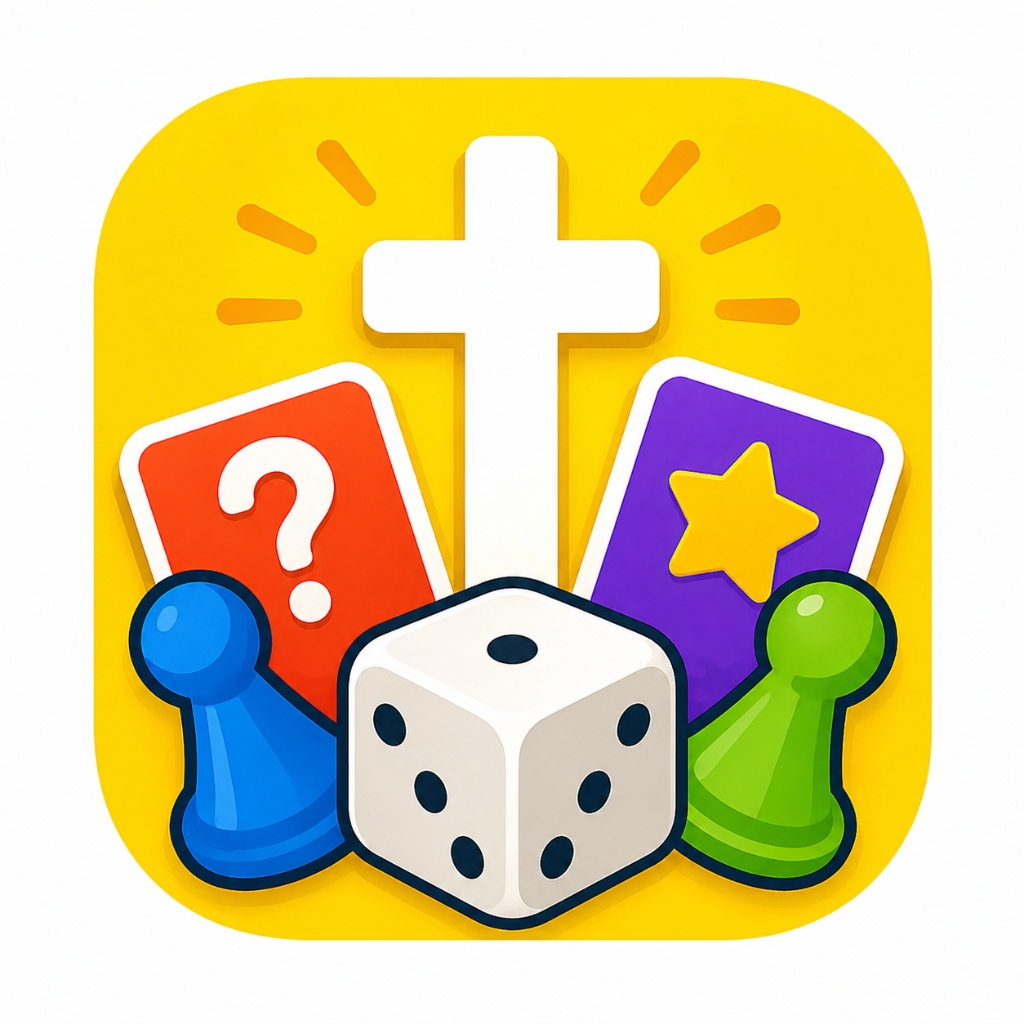
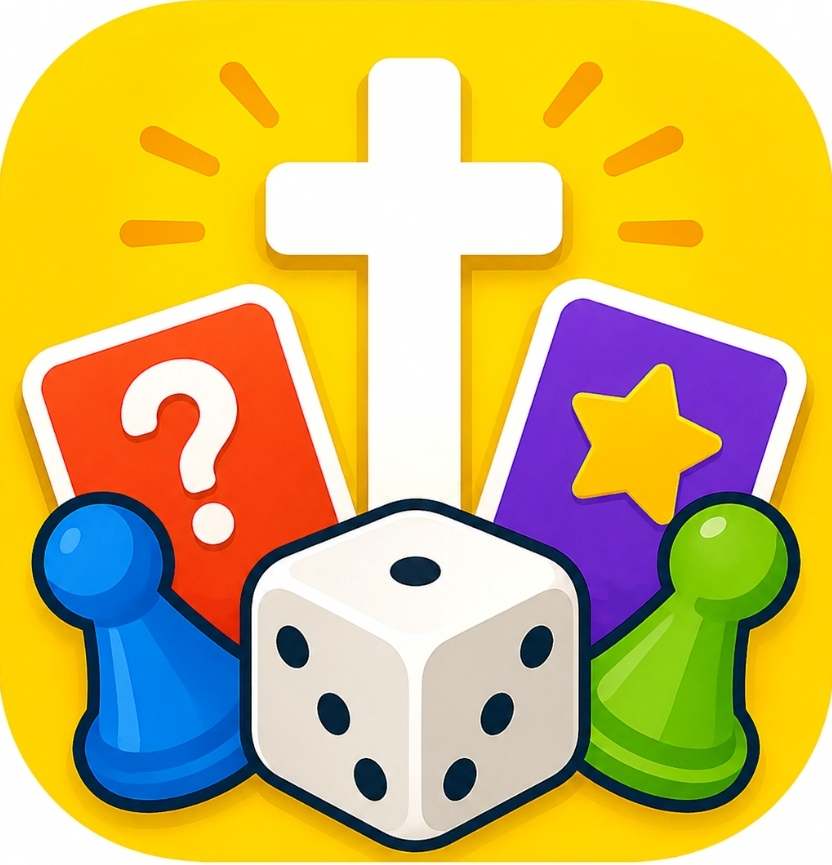
feat: expand home modules, add suggestions to Mais dialog, and fix header overlap

diff --git a/src/pages/Dashboard.tsx b/src/pages/Dashboard.tsx
@@ -62,7 +62,7 @@ export default function Dashboard() {
       }
     });
     
-    if (closestIndex >= 0 && closestIndex < 6) {
+    if (closestIndex >= 0 && closestIndex < 8) {
       setActiveModuleIndex(closestIndex);
     }
   };
@@ -1098,11 +1098,46 @@ export default function Dashboard() {
                 Bíblia
               </span>
             </div>
+
+            {/* Card Jogos */}
+            <div className="w-[130px] sm:w-[145px] shrink-0 snap-start relative group flex flex-col items-center">
+              <button
+                onClick={() => navigate("/jogos")}
+                className="relative aspect-square w-full rounded-[24px] overflow-hidden hover:scale-[1.04] active:scale-95 transition-all duration-300 shadow-lg border-2 border-white/50"
+              >
+                <img src="/icone-jogos.png" alt="Jogos" loading="lazy" className="w-full h-full object-cover transition-transform duration-300 group-hover:scale-105" />
+              </button>
+              <span className="text-[10px] font-black text-center mt-1.5 uppercase tracking-wider text-muted-foreground group-hover:text-primary transition-colors truncate w-full">
+                Jogos
+              </span>
+            </div>
+
+            {/* Card Catequese em Família */}
+            <div className="w-[130px] sm:w-[145px] shrink-0 snap-start relative group flex flex-col items-center">
+              <button
+                onClick={() => {
+                  if (selectedTurmaId !== "all" && selectedTurma?.status !== 'pending') {
+                    navigate(`/turmas/${selectedTurmaId}/familia`);
+                  } else if (selectedTurmaId === "all") {
+                    toast.info("Selecione uma turma para acessar este módulo.");
+                    setTurmaPickerOpen(true);
+                  } else {
+                    toast.info("Aguarde a aprovação do acesso.");
+                  }
+                }}
+                className="relative aspect-square w-full rounded-[24px] overflow-hidden hover:scale-[1.04] active:scale-95 transition-all duration-300 shadow-lg border-2 border-white/50"
+              >
+                <img src="/icone-catequese em familia.png" alt="Catequese em Família" loading="lazy" className="w-full h-full object-cover transition-transform duration-300 group-hover:scale-105" />
+              </button>
+              <span className="text-[10px] font-black text-center mt-1.5 uppercase tracking-wider text-muted-foreground group-hover:text-primary transition-colors truncate w-full">
+                Família
+              </span>
+            </div>
           </div>
 
           {/* Indicador de Bolinhas (Pagination Dots) */}
           <div className="flex justify-center items-center gap-1.5 mt-2 mb-4">
-            {[0, 1, 2, 3, 4, 5].map((idx) => (
+            {[0, 1, 2, 3, 4, 5, 6, 7].map((idx) => (
               <button
                 key={idx}
                 onClick={() => {

diff --git a/src/components/AppLayout.tsx b/src/components/AppLayout.tsx
@@ -192,19 +192,24 @@ export default function AppLayout({ children }: { children?: React.ReactNode }) 
                   { label: "Material", path: "/modulos/material", icon: FileText, color: "bg-emerald-500/15 text-emerald-600" },
                   { label: "Biblioteca", path: "/modulos/biblioteca", icon: Library, color: "bg-violet-500/15 text-violet-600" },
                   { label: "Mapa IVC", path: "/mapa-panoramico", icon: Map, color: "bg-pink-500/15 text-pink-600" },
+                  { label: "Dar Sugestão", onClick: () => setSugestaoOpen(true), icon: MessageSquare, color: "bg-teal-500/15 text-teal-600" },
                 ].map((item, i) => (
                   <button
                     key={i}
                     onClick={() => {
                       setMaisOpen(false);
-                      navigate(item.path);
+                      if (item.onClick) {
+                        item.onClick();
+                      } else if (item.path) {
+                        navigate(item.path);
+                      }
                     }}
-                    className="flex flex-col items-center gap-1.5 p-3 rounded-2xl bg-white dark:bg-zinc-900 border border-black/5 dark:border-white/5 shadow-sm hover:scale-[1.02] active:scale-[0.98] transition-all hover:shadow-md hover:border-primary/20 text-center group"
+                    className="flex flex-col items-center gap-2 p-3.5 rounded-2xl bg-white dark:bg-zinc-900 border border-black/5 dark:border-white/5 shadow-sm hover:scale-[1.02] active:scale-[0.98] transition-all hover:shadow-md hover:border-primary/20 text-center group min-h-[110px] w-full"
                   >
-                    <div className={`w-10 h-10 rounded-xl flex items-center justify-center ${item.color} group-hover:scale-110 transition-transform`}>
-                      <item.icon className="h-5 w-5" />
+                    <div className={`w-14 h-14 rounded-2xl flex items-center justify-center ${item.color} group-hover:scale-110 transition-transform shadow-inner`}>
+                      <item.icon className="h-7 w-7" />
                     </div>
-                    <span className="text-[10px] font-black text-foreground/80 leading-tight uppercase tracking-wider group-hover:text-primary transition-colors">
+                    <span className="text-[10px] font-black text-foreground/80 leading-normal uppercase tracking-wider group-hover:text-primary transition-colors break-words w-full px-0.5">
                       {item.label}
                     </span>
                   </button>
@@ -218,10 +223,10 @@ export default function AppLayout({ children }: { children?: React.ReactNode }) 
                 <div className="w-1.5 h-4 rounded-full bg-purple-500" />
                 <h3 className="text-xs font-black uppercase text-foreground/75 tracking-wider">Conecta Famílias</h3>
               </div>
-              <div className="grid grid-cols-2 gap-3">
+              <div className="grid grid-cols-3 gap-3">
                 {[
-                  { label: "Painel Conecta", path: "/comunicacao", icon: MessageSquare, color: "bg-purple-500/15 text-purple-500", desc: "Ver comunicados" },
-                  { label: "Criar Novo", path: "/comunicacao/novo", icon: FileText, color: "bg-emerald-500/15 text-emerald-600", desc: "Questionário" },
+                  { label: "Painel Conecta", path: "/comunicacao", icon: MessageSquare, color: "bg-purple-500/15 text-purple-500" },
+                  { label: "Criar Novo", path: "/comunicacao/novo", icon: FileText, color: "bg-emerald-500/15 text-emerald-600" },
                 ].map((item, i) => (
                   <button
                     key={i}
@@ -229,19 +234,14 @@ export default function AppLayout({ children }: { children?: React.ReactNode }) 
                       setMaisOpen(false);
                       navigate(item.path);
                     }}
-                    className="flex items-center gap-3 p-3 rounded-2xl bg-white dark:bg-zinc-900 border border-black/5 dark:border-white/5 shadow-sm hover:scale-[1.02] active:scale-[0.98] transition-all hover:shadow-md hover:border-primary/20 text-left group w-full"
+                    className="flex flex-col items-center gap-2 p-3.5 rounded-2xl bg-white dark:bg-zinc-900 border border-black/5 dark:border-white/5 shadow-sm hover:scale-[1.02] active:scale-[0.98] transition-all hover:shadow-md hover:border-primary/20 text-center group min-h-[110px] w-full"
                   >
-                    <div className={`w-10 h-10 rounded-xl flex items-center justify-center shrink-0 ${item.color} group-hover:scale-110 transition-transform`}>
-                      <item.icon className="h-5 w-5" />
+                    <div className={`w-14 h-14 rounded-2xl flex items-center justify-center ${item.color} group-hover:scale-110 transition-transform shadow-inner`}>
+                      <item.icon className="h-7 w-7" />
                     </div>
-                    <div className="min-w-0">
-                      <span className="block text-[11px] font-black text-foreground/80 uppercase tracking-wider group-hover:text-primary transition-colors">
-                        {item.label}
-                      </span>
-                      <span className="block text-[9px] text-muted-foreground font-bold truncate">
-                        {item.desc}
-                      </span>
-                    </div>
+                    <span className="text-[10px] font-black text-foreground/80 leading-normal uppercase tracking-wider group-hover:text-primary transition-colors break-words w-full px-0.5">
+                      {item.label}
+                    </span>
                   </button>
                 ))}
               </div>

diff --git a/src/components/MenuContent.tsx b/src/components/MenuContent.tsx
@@ -273,7 +273,7 @@ export function MenuContent({ onClose, onShowObjective }: MenuContentProps) {
   return (
     <div className="flex flex-col h-full bg-slate-100 dark:bg-zinc-950 overflow-hidden">
       {/* Nome do Usuário Logado & Assinatura */}
-      <div className="p-4 pb-2 border-b border-black/5 mb-2 flex items-center justify-between gap-3">
+      <div className="p-4 pr-12 pb-2 border-b border-black/5 mb-2 flex items-center justify-between gap-3">
         <div className="min-w-0 flex-1">
           <p className="text-[9px] font-black tracking-[0.2em] text-muted-foreground uppercase mb-0.5">Conta Ativa</p>
           <p className="text-xs font-bold text-foreground truncate">{user?.email}</p>